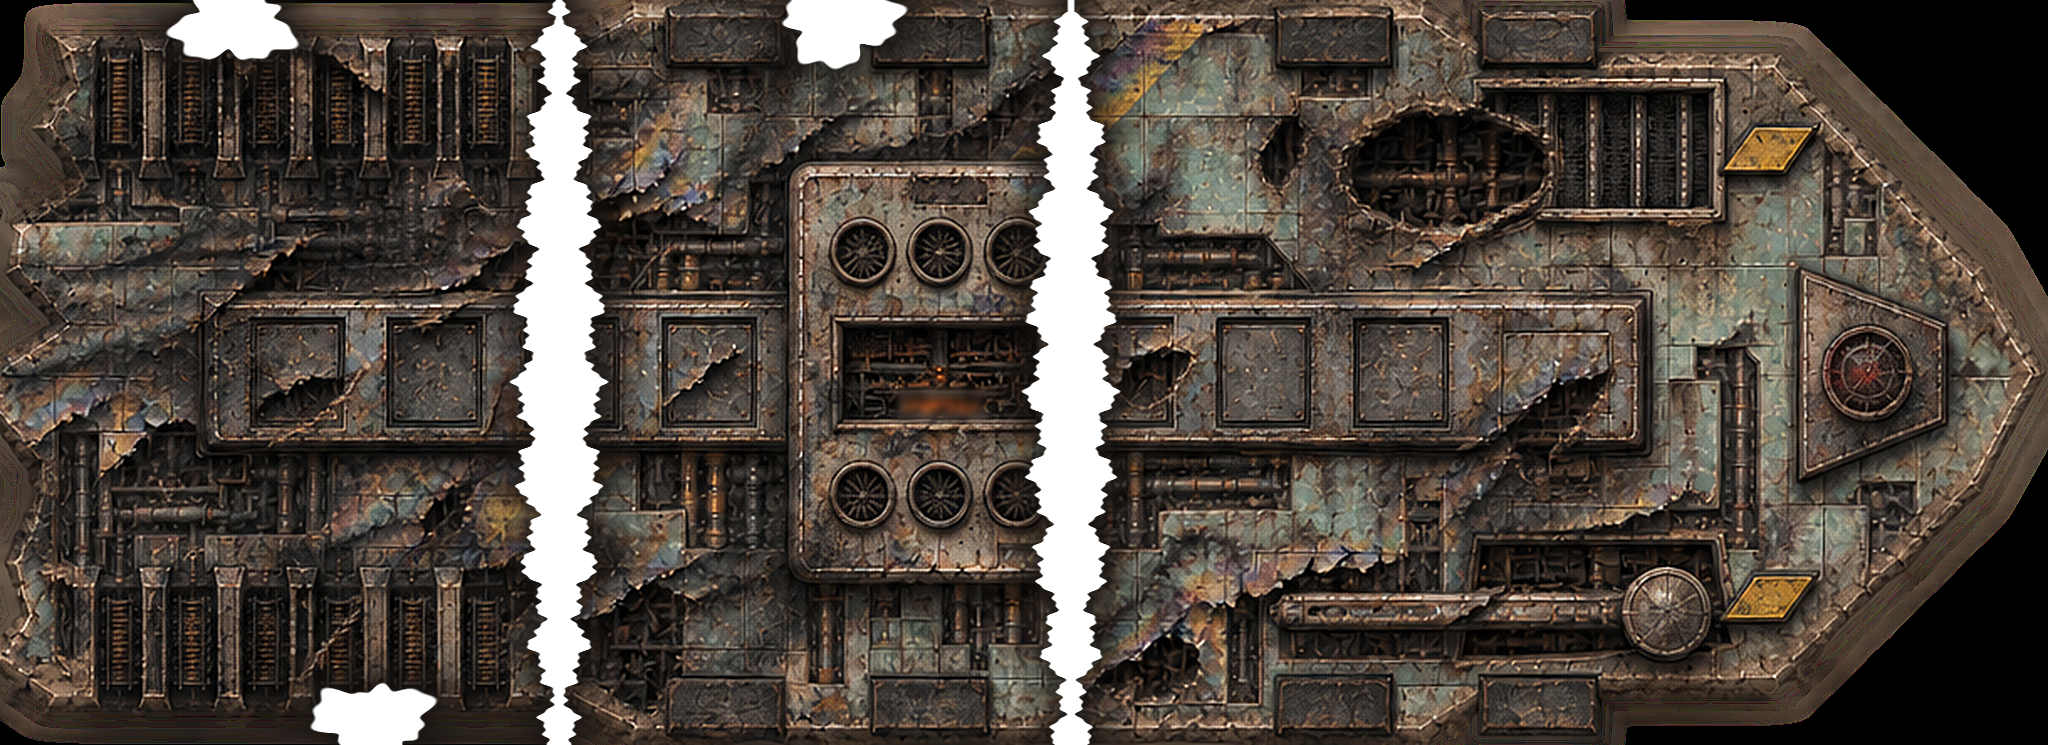
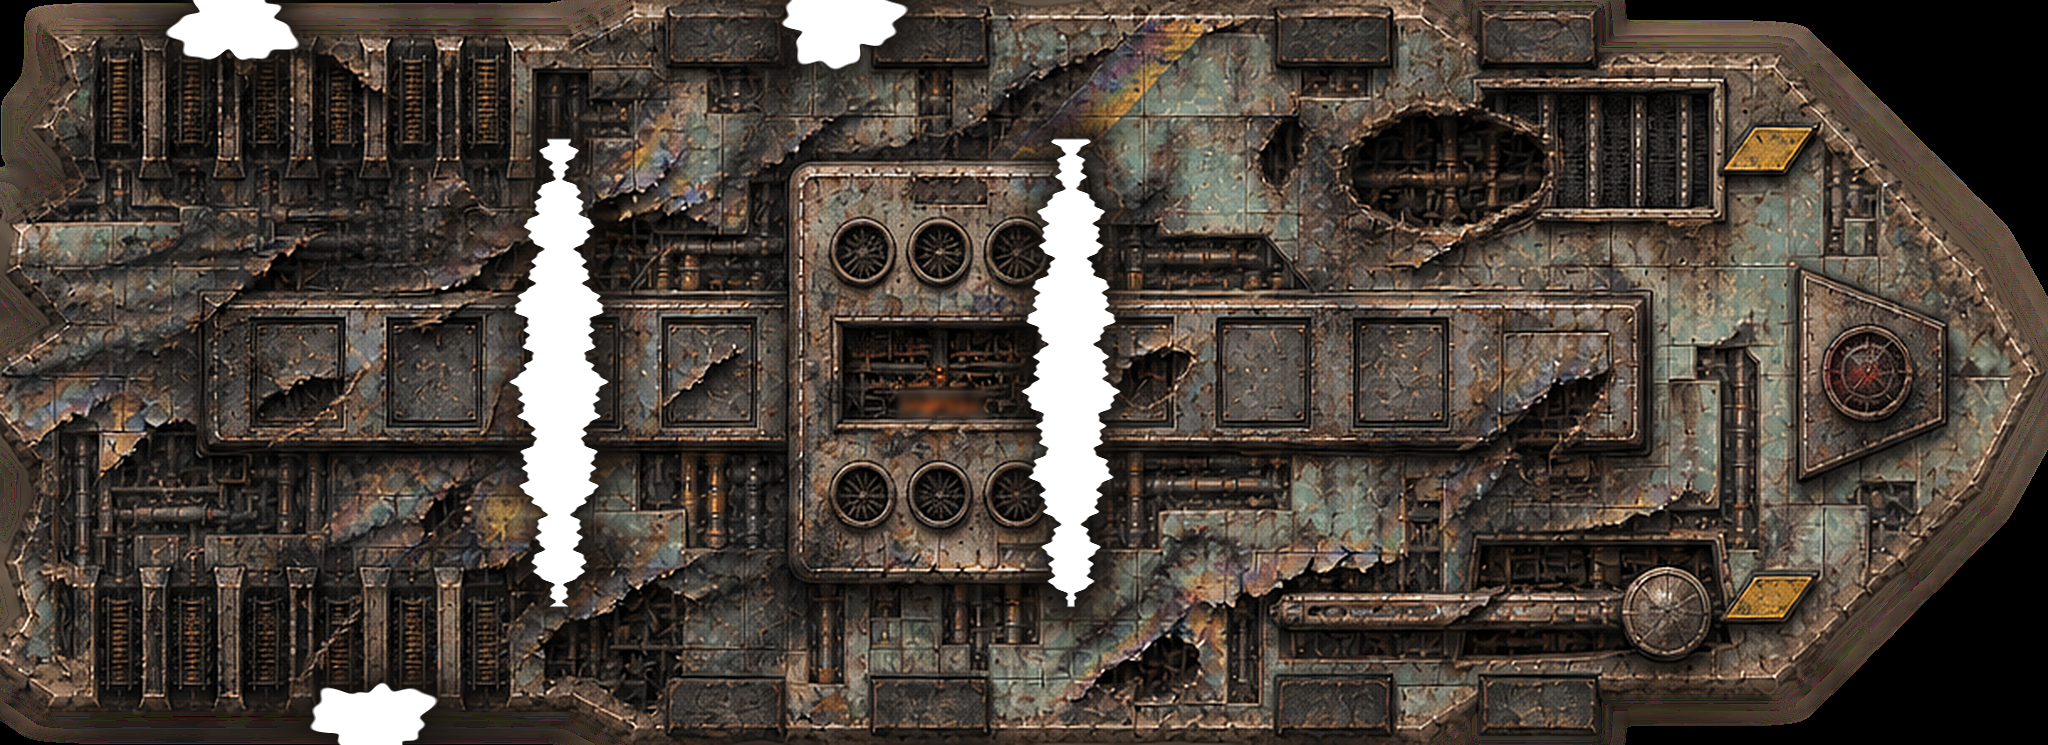
The fallen hull's roof stands as one: every compartment's roof lifts with the tallest, where those beside a break (counted breached) stood lower and split the painting along their walls, showing the decks between. The breaks' tears in the painting keep to the keel's torn span (v 6..25), so a broken 

diff --git a/src/main/java/com/dillon/starsectormarines/ops/battleview/BattleRenderer.java b/src/main/java/com/dillon/starsectormarines/ops/battleview/BattleRenderer.java
@@ -1587,7 +1587,8 @@ public class BattleRenderer {
             roofStream.ship = ship != null ? ship.of(b) : null;
             roofStream.shipOnly = false;
             roofStream.begin(out, b, roofAlpha * alphaMult);
-            roofStream.lift(roofLifts[buildingClass(topology, buildings, b)],
+            roofStream.lift(roofStream.ship != null ? shipLift(topology, buildings, ship)
+                            : roofLifts[buildingClass(topology, buildings, b)],
                     rc.camera.cellToScreenX(rc.camera.panCellX()), rc.camera.cellToScreenY(rc.camera.panCellY()));
             for (int at : plan.cells) {
                 int cx = at % gridW;
@@ -1621,7 +1622,7 @@ public class BattleRenderer {
             if (!view.intersects(b.minX - 1, b.maxX + 1, b.minY - 1, b.maxY + 1)) continue;
             RoofPlans.Plan plan = roofPlans.of(topology, buildings, b);
             roofStream.begin(out, b, b.currentAlpha * alphaMult);
-            roofStream.lift(roofLifts[buildingClass(topology, buildings, b)],
+            roofStream.lift(shipLift(topology, buildings, ship),
                     rc.camera.cellToScreenX(rc.camera.panCellX()), rc.camera.cellToScreenY(rc.camera.panCellY()));
             for (int at : plan.cells) {
                 int cx = at % gridW;
@@ -1653,7 +1654,7 @@ public class BattleRenderer {
             if (shown == null || shown.currentAlpha <= 0.01f) continue;
             roofStream.ship = section;
             roofStream.begin(out, shown, shown.currentAlpha * alphaMult);
-            roofStream.lift(roofLifts[buildingClass(topology, buildings, shown)],
+            roofStream.lift(shipLift(topology, buildings, ship),
                     rc.camera.cellToScreenX(rc.camera.panCellX()), rc.camera.cellToScreenY(rc.camera.panCellY()));
             for (int at : section.solid) {
                 int cx = at % gridW;
@@ -1664,6 +1665,19 @@ public class BattleRenderer {
                 roofStream.shipQuad(0f, 0f, 1f, 1f);
             }
         }
+    }
+
+    /**
+     * The one lift the whole ship's roof stands at: its tallest compartment's. Each compartment is its own building,
+     * and one beside a break counts as breached and stands lower, so lifted apart the painting would split along
+     * compartment lines and show the decks between.
+     */
+    private float shipLift(CellTopology topology, Buildings buildings, HullRoof ship) {
+        float lift = 1f;
+        for (HullRoof.Section section : ship.sections()) {
+            for (Building b : section.buildings) lift = Math.max(lift, roofLifts[buildingClass(topology, buildings, b)]);
+        }
+        return lift;
     }
 
     private HullRoof hullRoof;

diff --git a/art-source/fallen-hull/hull_roof.py b/art-source/fallen-hull/hull_roof.py
@@ -36,7 +36,9 @@ SHARPEN = 60                     # unsharp mask, percent, on the card stretched 
 # The breakup, in plan cells (the ground's sections: stern 0..23, mid 24..45, bow 46..87; side rents as u and v ranges).
 BREAKS = (24, 46)
 RENTS = ((14, 17, 0, 1), (8, 11, 30, 31), (34, 37, 30, 31))
-TEAR = (0.35, 1.5)                # a break's tear, cells either side of it: least at the hull's edges, most mid-hull
+TEAR = (0.35, 1.5)                # a break's tear, cells either side of it: least at its span's ends, most mid-hull
+TEAR_SPAN = (6, 26)               # across, the keel's middle the ground tears open (HullPlan.TEAR_V0..TEAR_V1 + 1):
+                                  # a broken end's corners stand and are roofed, so the painting keeps them
 SCORCH = 2.2                      # cells of soot beyond a tear's edge
 OUT = ROOT / "mod" / "graphics" / "battle" / "fallen-hull" / "hull-roof.png"
 
@@ -68,12 +70,16 @@ def tears(roof):
     inside = np.full((h, w), np.inf, dtype=np.float32)    # signed distance to the nearest tear's edge, cells
     rnd = np.random.default_rng(11)
     for k, b in enumerate(BREAKS):
-        across = np.sin(np.pi * np.clip(v / BREADTH, 0, 1))  # 0 at the hull's edges, 1 mid-hull
+        span = (v - TEAR_SPAN[0]) / (TEAR_SPAN[1] - TEAR_SPAN[0])
+        across = np.sin(np.pi * np.clip(span, 0, 1))        # 0 at the span's ends, 1 mid-hull
         ph = rnd.uniform(0, 6.3, 4)
         ragged = (0.45 * np.sin(v * 1.7 + ph[0]) + 0.3 * np.sin(v * 3.9 + ph[1]) + 0.2 * np.sin(v * 8.3 + ph[2])
                   + 0.12 * np.sin(v * 17.0 + ph[3]))
         depth = TEAR[0] + (TEAR[1] - TEAR[0]) * across + 0.6 * ragged
-        inside = np.minimum(inside, np.abs(u - b) - np.maximum(depth, 0.1))
+        torn = np.abs(u - b) - np.maximum(depth, 0.1)
+        # Past the span's ends the tear closes: the distance out of it, so the soot fades round the standing corner.
+        torn = np.maximum(torn, np.maximum(TEAR_SPAN[0] - v, v - TEAR_SPAN[1]))
+        inside = np.minimum(inside, torn)
     for u0, u1, v0, v1 in RENTS:
         cu, cv = (u0 + u1 + 1) / 2, (v0 + v1 + 1) / 2
         ru, rv = (u1 - u0 + 1) / 2 + 0.3, (v1 - v0 + 1) / 2 + 0.6
